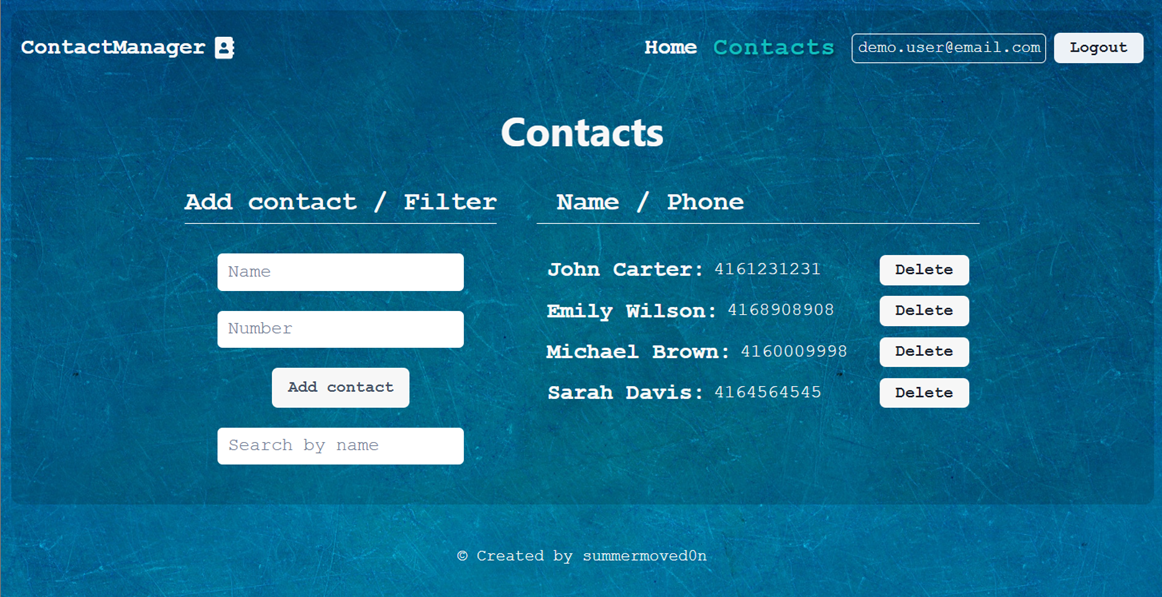
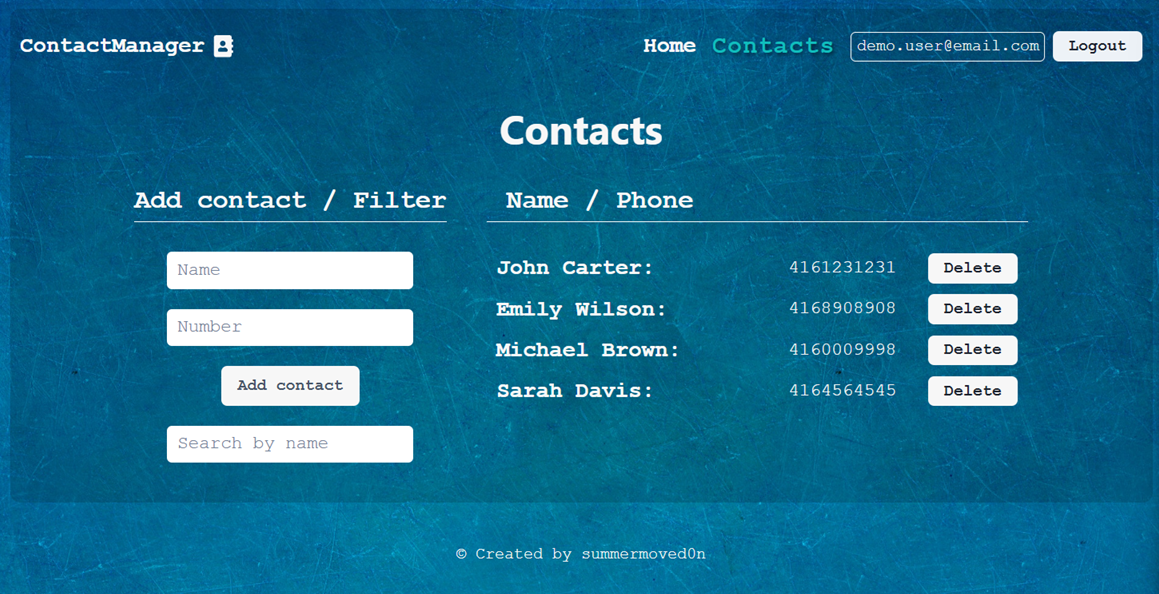
final fix

diff --git a/src/components/ContactListItems/ContactListItem.jsx b/src/components/ContactListItems/ContactListItem.jsx
@@ -17,9 +17,11 @@ export default function ContactListItem({ id, name, phone, deleteContact }) {
       <Box
         display={'flex'}
         flexDirection={['column', 'column', 'column', 'row']}
+        justifyContent={'space-between'}
         alignItems={['center', 'flex-start', 'flex-start', 'center']}
         flexWrap={'wrap'}
         gap={[0, 0, 0, 2, 4]}
+        w={[180, 180, 180, 400, 420]}
       >
         <Text
           color={['black', 'black', 'text']}
